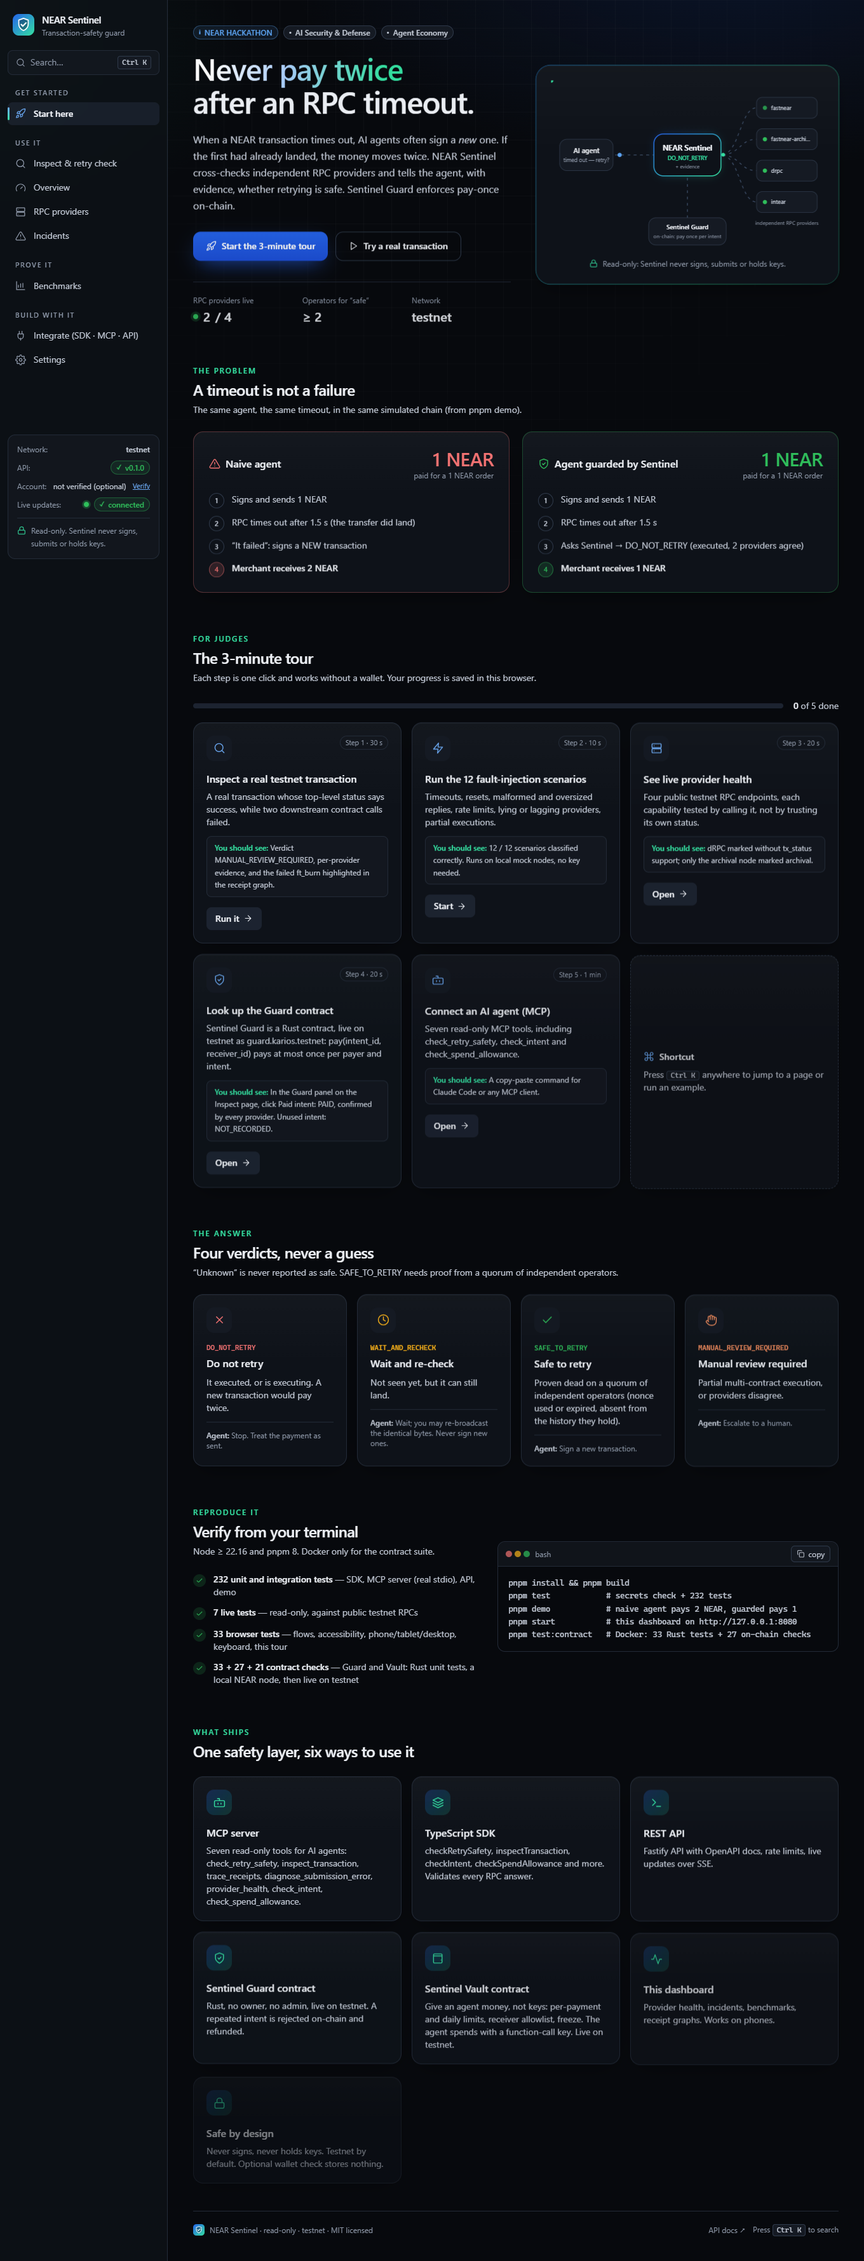
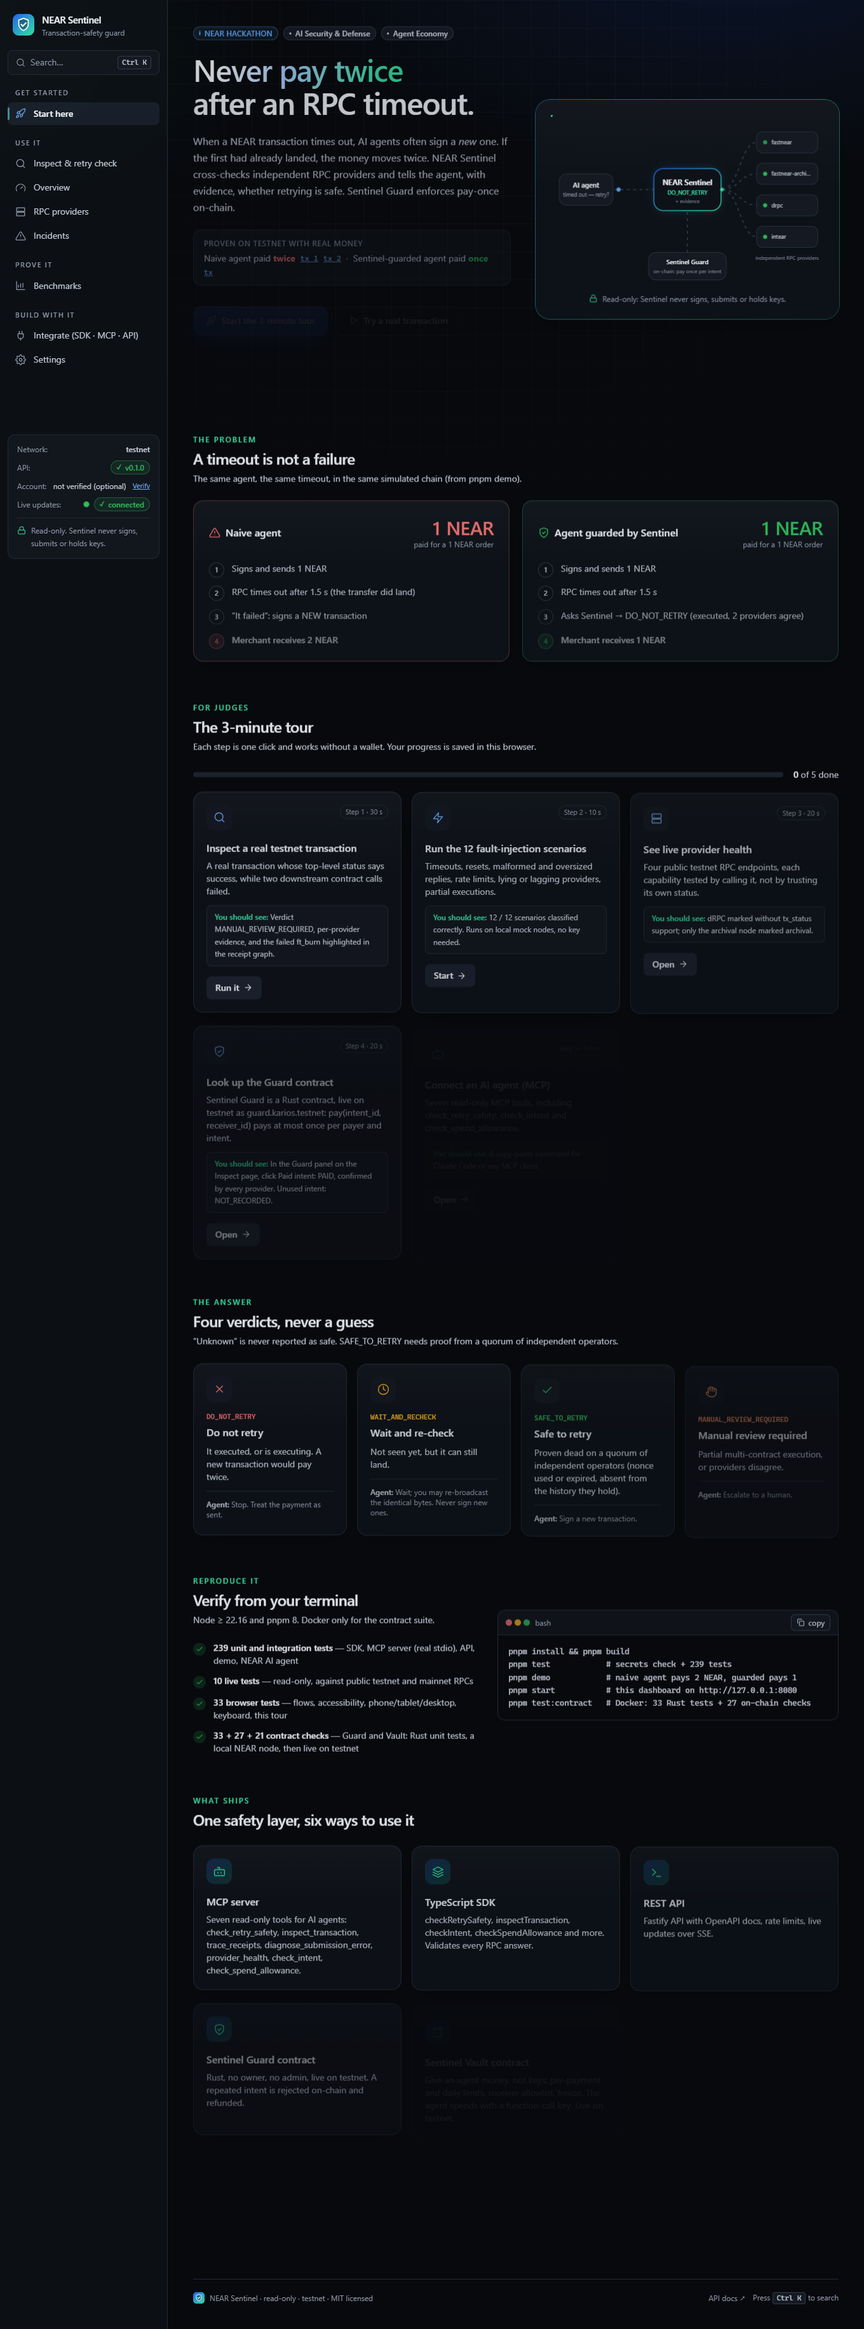
Proof on the first screen, 20-second clip recorder, read-only mainnet checks
Start page shows the real-money result (naive paid twice, guarded once) with testnet links; scripts/record-wow.mjs records a short clip; live tests now also verify real mainnet transactions read-only (10 live tests).

diff --git a/packages/sdk/test/live-mainnet.test.ts b/packages/sdk/test/live-mainnet.test.ts
@@ -1,0 +1,73 @@
+/**
+ * LIVE, READ-ONLY tests against public NEAR **mainnet** RPCs. Run with `pnpm test:live`.
+ * Nothing is signed or sent and no key is used. The transaction under test is picked dynamically
+ * from a recent final block, so no hardcoded hash can age out of non-archival history.
+ */
+import { describe, expect, it } from "vitest";
+import { NearSentinel } from "../src/sentinel.js";
+
+const RPC = "https://free.rpc.fastnear.com";
+const T = 90_000;
+const sentinel = new NearSentinel({ network: "mainnet", timeoutMs: 15_000 });
+
+async function rpc(method: string, params: unknown): Promise<any> {
+  const r = await fetch(RPC, { method: "POST", headers: { "content-type": "application/json" }, body: JSON.stringify({ jsonrpc: "2.0", id: 1, method, params }) });
+  const j = await r.json();
+  if (j.error) throw new Error(`${method}: ${JSON.stringify(j.error).slice(0, 200)}`);
+  return j.result;
+}
+
+/** A recent, successfully executed mainnet transaction (hash + signer), found by walking final blocks. */
+async function recentSuccessfulTx(): Promise<{ hash: string; signer: string }> {
+  let block = await rpc("block", { finality: "final" });
+  for (let b = 0; b < 15; b++) {
+    for (const ch of block.chunks ?? []) {
+      if (!ch.tx_root || /^1+$/.test(ch.tx_root)) continue;
+      const chunk = await rpc("chunk", { chunk_id: ch.chunk_hash }).catch(() => undefined);
+      for (const tx of chunk?.transactions ?? []) {
+        const st = await rpc("EXPERIMENTAL_tx_status", { tx_hash: tx.hash, sender_account_id: tx.signer_id, wait_until: "NONE" }).catch(() => undefined);
+        const s = st?.status ?? {};
+        const failed = JSON.stringify(st?.receipts_outcome ?? []).includes('"Failure"');
+        if (st?.final_execution_status === "FINAL" && ("SuccessValue" in s || "SuccessReceiptId" in s) && !failed) return { hash: tx.hash, signer: tx.signer_id };
+      }
+    }
+    block = await rpc("block", { block_id: block.header.prev_hash });
+  }
+  throw new Error("no successful transaction found in the last 15 final blocks");
+}
+
+describe("live mainnet (read-only)", () => {
+  it(
+    "default mainnet providers answer with chain_id mainnet from at least 2 independent operators",
+    async () => {
+      const h = await sentinel.getProviderHealth();
+      const up = h.filter((p) => p.reachable && p.chainId === "mainnet");
+      console.log(h.map((p) => `${p.provider}:${p.reachable ? p.chainId : "down"}`).join(" "));
+      expect(h.every((p) => !p.reachable || p.chainId === "mainnet")).toBe(true);
+      expect(new Set(up.map((p) => p.operator)).size).toBeGreaterThanOrEqual(2);
+    },
+    T,
+  );
+
+  it(
+    "a real, recent, successful mainnet transaction is DO_NOT_RETRY (never SAFE_TO_RETRY)",
+    async () => {
+      const { hash, signer } = await recentSuccessfulTx();
+      const r = await sentinel.checkRetrySafety({ transactionHash: hash, senderAccountId: signer });
+      console.log("mainnet tx", hash, signer, r.state, r.verdict);
+      expect(r.state).toBe("EXECUTED_SUCCESS");
+      expect(r.verdict).toBe("DO_NOT_RETRY");
+    },
+    T,
+  );
+
+  it(
+    "an unknown transaction hash on mainnet is WAIT_AND_RECHECK, never SAFE",
+    async () => {
+      const r = await sentinel.checkRetrySafety({ transactionHash: "11111111111111111111111111111112", senderAccountId: "near" });
+      expect(r.verdict).not.toBe("SAFE_TO_RETRY");
+      expect(r.verdict).toBe("WAIT_AND_RECHECK");
+    },
+    T,
+  );
+});

diff --git a/apps/web/src/pages/Start.tsx b/apps/web/src/pages/Start.tsx
@@ -108,6 +108,27 @@ export function StartPage() {
             When a NEAR transaction times out, AI agents often sign a <em>new</em> one. If the first had already landed, the money moves twice. NEAR Sentinel
             cross-checks independent RPC providers and tells the agent, with evidence, whether retrying is safe. Sentinel Guard enforces pay-once on-chain.
           </p>
+          <div className="mt-5 max-w-xl rounded-xl border border-line bg-surface-2/60 px-4 py-3 text-sm" aria-label="Proof on testnet with real money">
+            <p className="text-xs font-semibold uppercase tracking-wider text-muted">Proven on testnet with real money</p>
+            <p className="mt-1.5 flex flex-wrap items-center gap-x-2 gap-y-1 text-ink-2">
+              <span>
+                Naive agent paid <strong className="text-critical">twice</strong>
+              </span>
+              <a className="font-mono text-xs text-link underline" href="https://testnet.nearblocks.io/txns/185YtdJZxUCMAaqjRtmSj4MTx51mdiMpjhAPmZ3rZaH" target="_blank" rel="noreferrer">
+                tx 1
+              </a>
+              <a className="font-mono text-xs text-link underline" href="https://testnet.nearblocks.io/txns/6h2hMxjpjdYwDF6zXJ5gTwD5MY47UT7thdRaxZM2Pc6h" target="_blank" rel="noreferrer">
+                tx 2
+              </a>
+              <span className="text-muted">·</span>
+              <span>
+                Sentinel-guarded agent paid <strong className="text-good">once</strong>
+              </span>
+              <a className="font-mono text-xs text-link underline" href="https://testnet.nearblocks.io/txns/C59gttNUHCaVTHVi2GKCw6zu5C7QcmwPbUuw9NeaXnzS" target="_blank" rel="noreferrer">
+                tx
+              </a>
+            </p>
+          </div>
           <div className="mt-7 flex flex-wrap gap-3">
             <button
               type="button"
@@ -262,7 +283,7 @@ export function StartPage() {
           <ul className="space-y-3 text-sm text-ink-2">
             {[
               ["239 unit and integration tests", "SDK, MCP server (real stdio), API, demo, NEAR AI agent"],
-              ["7 live tests", "read-only, against public testnet RPCs"],
+              ["10 live tests", "read-only, against public testnet and mainnet RPCs"],
               ["33 browser tests", "flows, accessibility, phone/tablet/desktop, keyboard, this tour"],
               ["33 + 27 + 21 contract checks", "Guard and Vault: Rust unit tests, a local NEAR node, then live on testnet"],
             ].map(([a, b]) => (

diff --git a/docs/STATUS.md b/docs/STATUS.md
@@ -8,7 +8,7 @@ pnpm install
 pnpm build              # sdk → mcp → api → web → demo → guard scripts (tsc / vite)
 pnpm typecheck
 pnpm test               # secrets gate + sdk 160 + mcp 13 (stdio e2e) + api 52 + demo 7 assertions
-pnpm test:live          # 7 read-only tests against public NEAR testnet RPCs
+pnpm test:live          # 10 read-only tests against public NEAR RPCs (7 testnet + 3 mainnet)
 pnpm test:e2e           # 32 Playwright tests (functional + axe a11y + responsive + keyboard + optional sign-in + judge tour)
 pnpm test:contract      # guard 14 + vault 19 Rust unit tests + 27-check on-chain suite on a local neard sandbox (Docker)
 pnpm verify             # every check above in one summary table (`--quick`: no network/browser/Docker)
@@ -33,6 +33,7 @@ docker compose up -d --build
 | API | **52/52** (incl. vault allowance route, security headers, public simulated benchmark vs key-protected real one, NEP-413 forgery cases, intents, SSE per-IP cap, 413 body limit, rate limits) |
 | Demo `--assert` | **7/7** |
 | Live testnet | **7/7** (aging-proof: the old failed tx now only lives on the archival operator → honest WAIT) |
+| Live mainnet (read-only) | **3/3**: providers chain_id mainnet (≥ 2 operators), a real recent successful tx picked live → DO_NOT_RETRY, unknown hash → WAIT |
 | Dashboard E2E (installed Chrome, or bundled Chromium) | **33/33** (incl. the live Vault panel): 7 functional, 8 axe (WCAG 2.1 AA, 0 serious/critical), 3 viewports × 8 pages (no overflow, no console errors), keyboard, 4 optional-sign-in, guard panel (incl. the live testnet deployment), start-page tour, command palette, mobile drawer, one-click benchmark, modal focus trap, reduced motion |
 | Contract unit (Rust, Docker) | **33/33** (guard 14 + vault 19) |
 | On-chain sandbox suite (local neard 2.14.0, protocol 88) | **27/27** = vault 14 (a function-call key pays within the policy and is rejected for a direct transfer or any other method; limits, allowlist, duplicates, freeze, owner-only withdraw, failed transfer restored) + guard **13/13** (incl. a failed payment larger than the contract balance, refunded in full) + deploy code-hash match; true concurrent race credits the receiver exactly once |
@@ -108,16 +109,8 @@ docker compose up -d --build
 - `pnpm contract:deploy` runs `pnpm --filter … run deploy` (plain `deploy` would hit pnpm's built-in command). `-- --i-confirm` forwarding verified.
 
 ## Uncommitted work
-- **Local, not pushed (owner asked to push only at the very end, after asking):** safety fixes from an independent review on 2026-11-11.
-  - Default providers: `rpc.*.near.org` is a CNAME to FastNEAR, so it was not an independent operator. Replaced by Intear (`testnet-rpc.intea.rs`); Tatum was tried first and rejected (5 requests/minute without a key). Regression test added.
-  - Delayed re-lookup (`proofRecheckMs`, default 2.5 s) before a "nonce consumed + not found" answer counts as proof (load-balanced RPC pools). 2 new tests.
-  - Guard sandbox suite: 13/13 (a failed payment larger than the contract's balance is refunded in full).
-  - Reproducibility: e2e falls back to bundled Chromium without Chrome; the secrets gate works from a ZIP download (no .git); README says `npm install -g pnpm@8` (Node 26 has no corepack). Verified in a clean Linux container (Node 26, no git, no Chrome, no Docker) with `pnpm verify`: build, test 239, demo, live 7/7, e2e 33/33, contracts correctly SKIPPED (no Docker).
-  - The live site already runs this code (redeployed 2026-11-11; previous image kept on the server as `near-sentinel:previous`).
-- Sentinel Vault (2026-11-11): new contract `contracts/guard/vault` (19 unit + 14 sandbox checks), deployed and live-tested on testnet (10/10), SDK `checkSpendAllowance`, MCP `check_spend_allowance`, API `/api/v1/allowance`, dashboard "Agent allowance" panel, `pnpm vault:testnet`, `pnpm verify`, `JUDGING.md`. The live site already runs it (`VAULT_CONTRACT_ID=vault.karios.testnet` on the server).
-- Second independent review (2026-11-11) found 3 real issues, all fixed with regression tests: the re-check now keeps positive evidence (SDK), the vault's failed-transfer refund is limited to the window it was counted in, and the vault record fee is 0.006 NEAR (measured worst case). The live vault was upgraded in place and re-tested 10/10 (`pnpm vault:testnet -- --upgrade`, then runs with a fresh agent sub-account per run).
-- NEAR AI agent (`examples/near-ai-agent`, 7 offline tests) and README positioning ("Never pay twice after an RPC timeout", real-money proof first, "What NEAR makes possible"). Live NEAR AI run needs the owner's key in the git-ignored `examples/near-ai-agent/.env`. NEAR Connect owner actions in the Vault panel (fund / freeze / withdraw with a signing preview; lazy-loaded). Final checks 2026-11-12: `pnpm verify` all PASS locally (239 tests, e2e 33/33, contracts 14+19 unit, 27/27 sandbox, live 7/7; NEAR AI live SKIPPED without key); same in a clean Linux container (contracts SKIPPED: no Docker); live site redeployed, e2e 33/33 against it.
-- `packages/sdk/t.cjs` is a local scratch file and is deliberately left out of git.
+- None of substance: everything up to commit `aadae02` (2026-11-12) is pushed to `master` (public). `packages/sdk/t.cjs` is a local scratch file, deliberately untracked.
+- Remaining before the deadline (2026-11-14 23:59 UTC): optional live NEAR AI run (`pnpm demo:near-ai`, needs the owner's key), the owner's change request (add track `open`, optional rename, new description; text in the git-ignored submission draft), then tag the final commit `hackathon-submission`.
 
 ## Blocked on the owner
 - Nothing blocking. Submitted 2026-11-11 (X post https://x.com/kariosgx/status/2120484078420169114). Results by 2026-11-18 23:59 UTC.

diff --git a/README.md b/README.md
@@ -40,7 +40,7 @@ It ships as a TypeScript SDK, an **MCP server for AI agents**, a REST API and a 
 
 - **Tracks:** **AI Security & Defense** (primary): an agent that hits an RPC timeout never pays twice; Sentinel proves whether a payment executed, can still land, or can never land. Also Sentinel Vault: an allowance an agent spends with a function-call key, not your keys. **Agent Economy**: a payment-safety layer agents call through MCP or from NEAR AI Cloud, plus on-chain pay-once enforcement.
 - **Baseline:** none. All code was written during the hackathon window (from 2026-11-09). It is not a port of an existing product on any chain. Libraries and AI assistance are listed under [Built with](#built-with-and-ai-disclosure).
-- **Network:** NEAR testnet only. No feature depends on mainnet.
+- **Network:** everything that moves funds ran on testnet only. Read-only checks also run live on **mainnet** (`pnpm test:live`): mainnet providers, a real recent mainnet transaction → `DO_NOT_RETRY`, an unknown hash → `WAIT_AND_RECHECK`.
 - **NEAR integrations used:** NEAR JSON-RPC across several independent providers (`EXPERIMENTAL_tx_status`, `view_access_key`, `block`, protocol config, `call_function` views); two Rust contracts on testnet built with near-sdk 5 (Sentinel Guard `guard.karios.testnet`, Sentinel Vault `vault.karios.testnet`); NEAR **function-call access keys** (the agent's key can only call `spend` on the vault); NEP-297 `EVENT_JSON` events; NEP-413 signed messages for the optional account check; an MCP server for AI agents; **NEAR AI Cloud** (OpenAI-compatible API, TEE-hosted model, response signatures and attestation) for the example agent; **NEAR Connect** (`@hot-labs/near-connect`, NEAR's recommended wallet connector) so a vault owner funds, freezes or withdraws from the dashboard with their own wallet.
 - **Live instance:** https://64-177-60-105.sslip.io (a 1 GB Vultr server behind Caddy HTTPS, deployed with [docs/deployment/VULTR.md](docs/deployment/VULTR.md)). Everything also runs locally. Demo video: [X post](https://x.com/kariosgx/status/2120484078420169114).
 
@@ -54,7 +54,7 @@ It ships as a TypeScript SDK, an **MCP server for AI agents**, a REST API and a 
 | `pnpm start`, then open http://127.0.0.1:8080 | Dashboard on live testnet. It opens on **Start here**: a 3-minute judge tour where every step is one click. Click **Skip** on the optional verify banner. Press **Ctrl K** to jump anywhere. |
 | Inspect page → paste a testnet tx hash | Verdict, per-provider evidence, receipt graph |
 | Benchmarks page → **Run simulated faults** (no key needed) | 12/12 fault scenarios classified correctly in a few seconds |
-| `pnpm test:live` | 7 read-only tests against public testnet RPCs |
+| `pnpm test:live` | 10 read-only tests against public RPCs: 7 on testnet, 3 on mainnet (a real recent mainnet transaction picked live) |
 | `pnpm test:contract` (Docker) | 33 Rust unit tests (Guard 14 + Vault 16) + 27 on-chain checks on a local NEAR sandbox, including a duplicate payment rejected with `DUPLICATE_INTENT` and an agent whose function-call key can only `spend` within its allowance |
 | `pnpm test:e2e` (starts the built API itself; uses Google Chrome if installed, otherwise run `pnpm --filter @near-sentinel/web exec playwright install chromium` once) | 33 browser tests: flows, accessibility, mobile, keyboard, judge tour, command palette, modal focus, reduced motion |
 | MCP: see [From an AI agent](#from-an-ai-agent-mcp) | `check_retry_safety`, `check_intent`, `check_spend_allowance` and 4 more read-only tools |
@@ -118,7 +118,7 @@ pnpm start          # API + dashboard on http://127.0.0.1:8080 (NEAR testnet, 4 
 
 - Open http://127.0.0.1:8080 for the dashboard (it opens on a **Start here** page with a guided judge tour), or http://127.0.0.1:8080/docs for interactive OpenAPI.
 - Other gates (all re-run on 2026-11-11, results in [docs/STATUS.md](docs/STATUS.md)):
-  - `pnpm test:live`: 7 tests against real testnet RPCs, read-only.
+  - `pnpm test:live`: 10 read-only tests against real RPCs (7 testnet, 3 mainnet).
   - `pnpm test:e2e`: 32 Playwright tests that drive the dashboard against the running API on testnet: functional flows, **axe accessibility (WCAG 2.1 AA, no serious/critical issues) on every page**, mobile/tablet/desktop layouts, keyboard navigation, the optional account verification (skip, cancel, forged callback), the judge tour, the Ctrl+K command palette, the mobile menu, the one-click benchmark and the live Guard and Vault panels.
   - `pnpm test:contract`: 33 Rust unit tests (Guard 14 + Vault 16) + a 27-check on-chain suite on a local NEAR sandbox (Docker). See [contracts/guard](contracts/guard/README.md).
   - `pnpm test:load`: load and soak test of the built server against local mock RPCs (public RPCs are never load-tested). Zero errors, p99 budgets, no memory growth after warm-up.

diff --git a/docs/KNOWN_LIMITATIONS.md b/docs/KNOWN_LIMITATIONS.md
@@ -9,7 +9,7 @@ Honest list. Nothing here is claimed as working elsewhere.
 - **Cross-shard receipt tracing** uses the receipts returned with the transaction. `EXPERIMENTAL_receipt` / `EXPERIMENTAL_receipt_to_tx` lookups for receipts outside the tx result are not used.
 - **Old transactions** need an archival provider. The default list includes FastNEAR archival (testnet). Without one, history beyond ~5 epochs is reported as not covered.
 - **Operator independence is based on labels.** `SAFE_TO_RETRY` counts distinct `operator` values. The defaults are FastNEAR, dRPC and Intear, checked by DNS on 2026-11-11. An earlier default, `rpc.testnet.near.org`, turned out to be a CNAME to FastNEAR's infrastructure and was removed, because it would have counted FastNEAR twice. But a custom provider registered via `POST /api/v1/providers` (API key required) carries whatever label its registrant gives it, and an unlabelled one falls back to the host's last two DNS labels. Whether an aggregator such as dRPC routes to the same backend as another provider is not verified.
-- **Mainnet defaults exist but were not exercised by the test suite.** All live tests ran on testnet. Mainnet use is supported by configuration only.
+- **Mainnet is exercised read-only.** `pnpm test:live` runs 3 read-only mainnet checks (default mainnet providers reachable with chain_id mainnet from ≥ 2 independent operators; a real recent successful mainnet transaction, picked live from a final block, is `DO_NOT_RETRY`; an unknown hash is `WAIT_AND_RECHECK`). Everything that signs or moves funds (demos, contracts, live suites) ran on testnet only.
 
 ## Guard contract (`contracts/guard`)
 - **Not audited.** Tested with 14 unit tests, a 13-check on-chain suite on a local sandbox (including a failed payment larger than the contract's own balance) (neard 2.14.0, protocol 88), and 11/11 live checks on testnet. Deployed to testnet as `guard.karios.testnet`; intended for testnet only.

diff --git a/CHANGELOG.md b/CHANGELOG.md
@@ -12,6 +12,7 @@ First release, built for NEAR HACKATHON (Nov 2026).
 - `pnpm verify` (one summary table of every check) and `JUDGING.md` (each claim with its proof).
 
 ### NEAR AI agent and NEAR Connect (2026-11-12)
+- Read-only **mainnet** checks in `pnpm test:live` (3 tests): mainnet providers, a real recent mainnet transaction picked live → DO_NOT_RETRY, an unknown hash → WAIT_AND_RECHECK. Live suite now 10 (7 testnet + 3 mainnet).
 - Dashboard: Vault owner actions through **NEAR Connect** (`@hot-labs/near-connect` 0.12.0, which replaced the deprecated Wallet Selector): fund/update a policy, freeze/unfreeze, withdraw, each with a preview of exactly what the wallet will sign. Loaded lazily; the server stays keyless.
 - `examples/near-ai-agent`: a payments agent on NEAR AI Cloud (OpenAI-compatible API, model NEAR AI hosts in a TEE) with NEAR Sentinel as its tools. Sentinel's verdict is binding: a deterministic guard overrules a model that proposes paying again after Sentinel said the payment executed, and escalates when no evidence was gathered. Live run `pnpm demo:near-ai` records each answer's NEAR AI response signature and the model's attestation report in `docs/near-ai-run.md`; 7 offline tests run against a mock of the API (no key needed). `pnpm verify` reports the live run as SKIPPED without a key.
 - README leads with the problem in one sentence and the real-money proof, and explains what NEAR makes possible (provable non-execution, receipts, function-call keys, named accounts, NEAR AI).

diff --git a/JUDGING.md b/JUDGING.md
@@ -64,6 +64,7 @@ Verified on 2026-11-11 on Windows (Node 22.16, Chrome) and in a clean Linux cont
 ### Safety and security of the service itself
 | Claim | Check |
 |---|---|
+| Works on mainnet too (read-only) | `pnpm test:live` → `packages/sdk/test/live-mainnet.test.ts`: mainnet providers answer with chain_id mainnet from ≥ 2 independent operators; a real recent successful mainnet transaction, picked live from a final block, is `DO_NOT_RETRY`; an unknown hash is `WAIT_AND_RECHECK`. Nothing is signed. |
 | Read-only: Sentinel never signs or submits | The SDK, MCP server and API contain no signing code. Only the demo agents (`examples/agent-demo`) and the guard's deploy/test scripts sign, with keys from git-ignored `.env` files. |
 | SSRF-guarded custom providers, rate limits, body limit, anti-framing headers | `packages/sdk/src/ssrf.ts`, `packages/sdk/test/ssrf.test.ts`, `apps/api/test/api.test.ts` |
 | No keys or seed phrases in the repo | `node scripts/check-secrets.mjs` (runs first in `pnpm test`) |

diff --git a/packages/sdk/README.md b/packages/sdk/README.md
@@ -59,5 +59,5 @@ Network failures are **not** thrown. They become observations and diagnostics (t
 
 ```bash
 pnpm test        # 160 unit tests (mock RPCs, real fixtures)
-pnpm test:live   # 7 read-only tests against public testnet RPCs
+pnpm test:live   # 10 read-only tests against public testnet and mainnet RPCs
 ```
